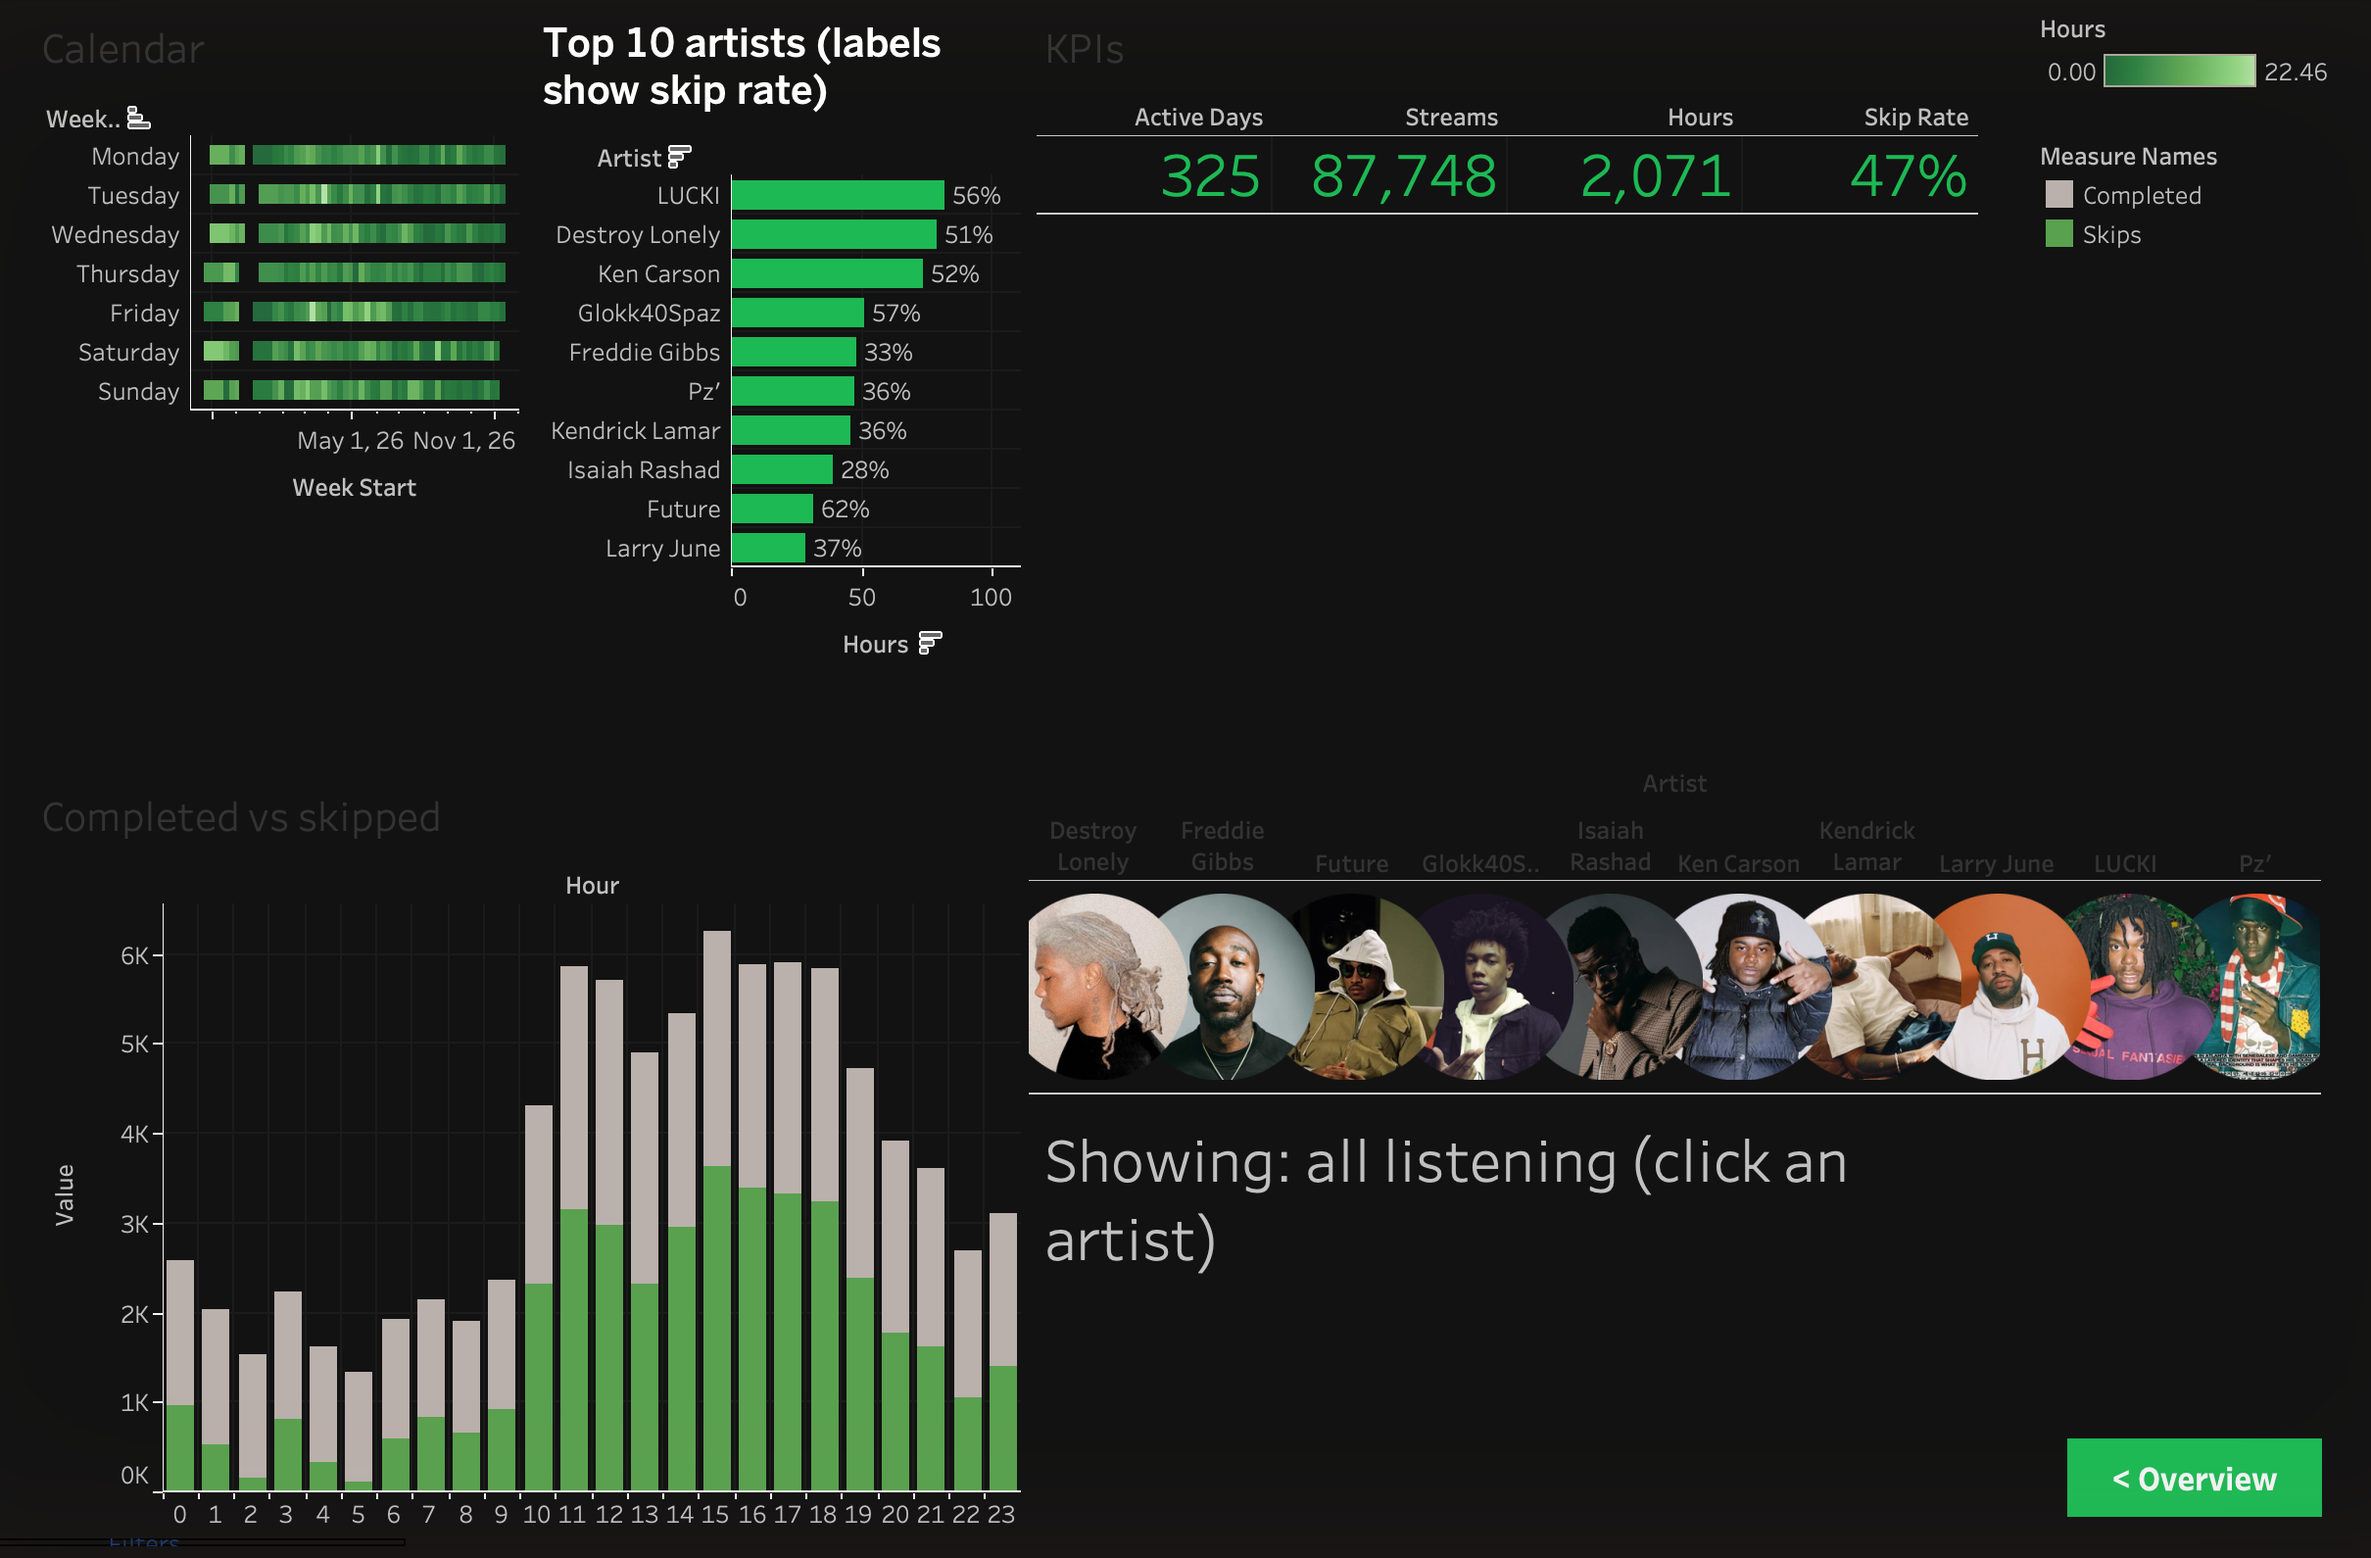
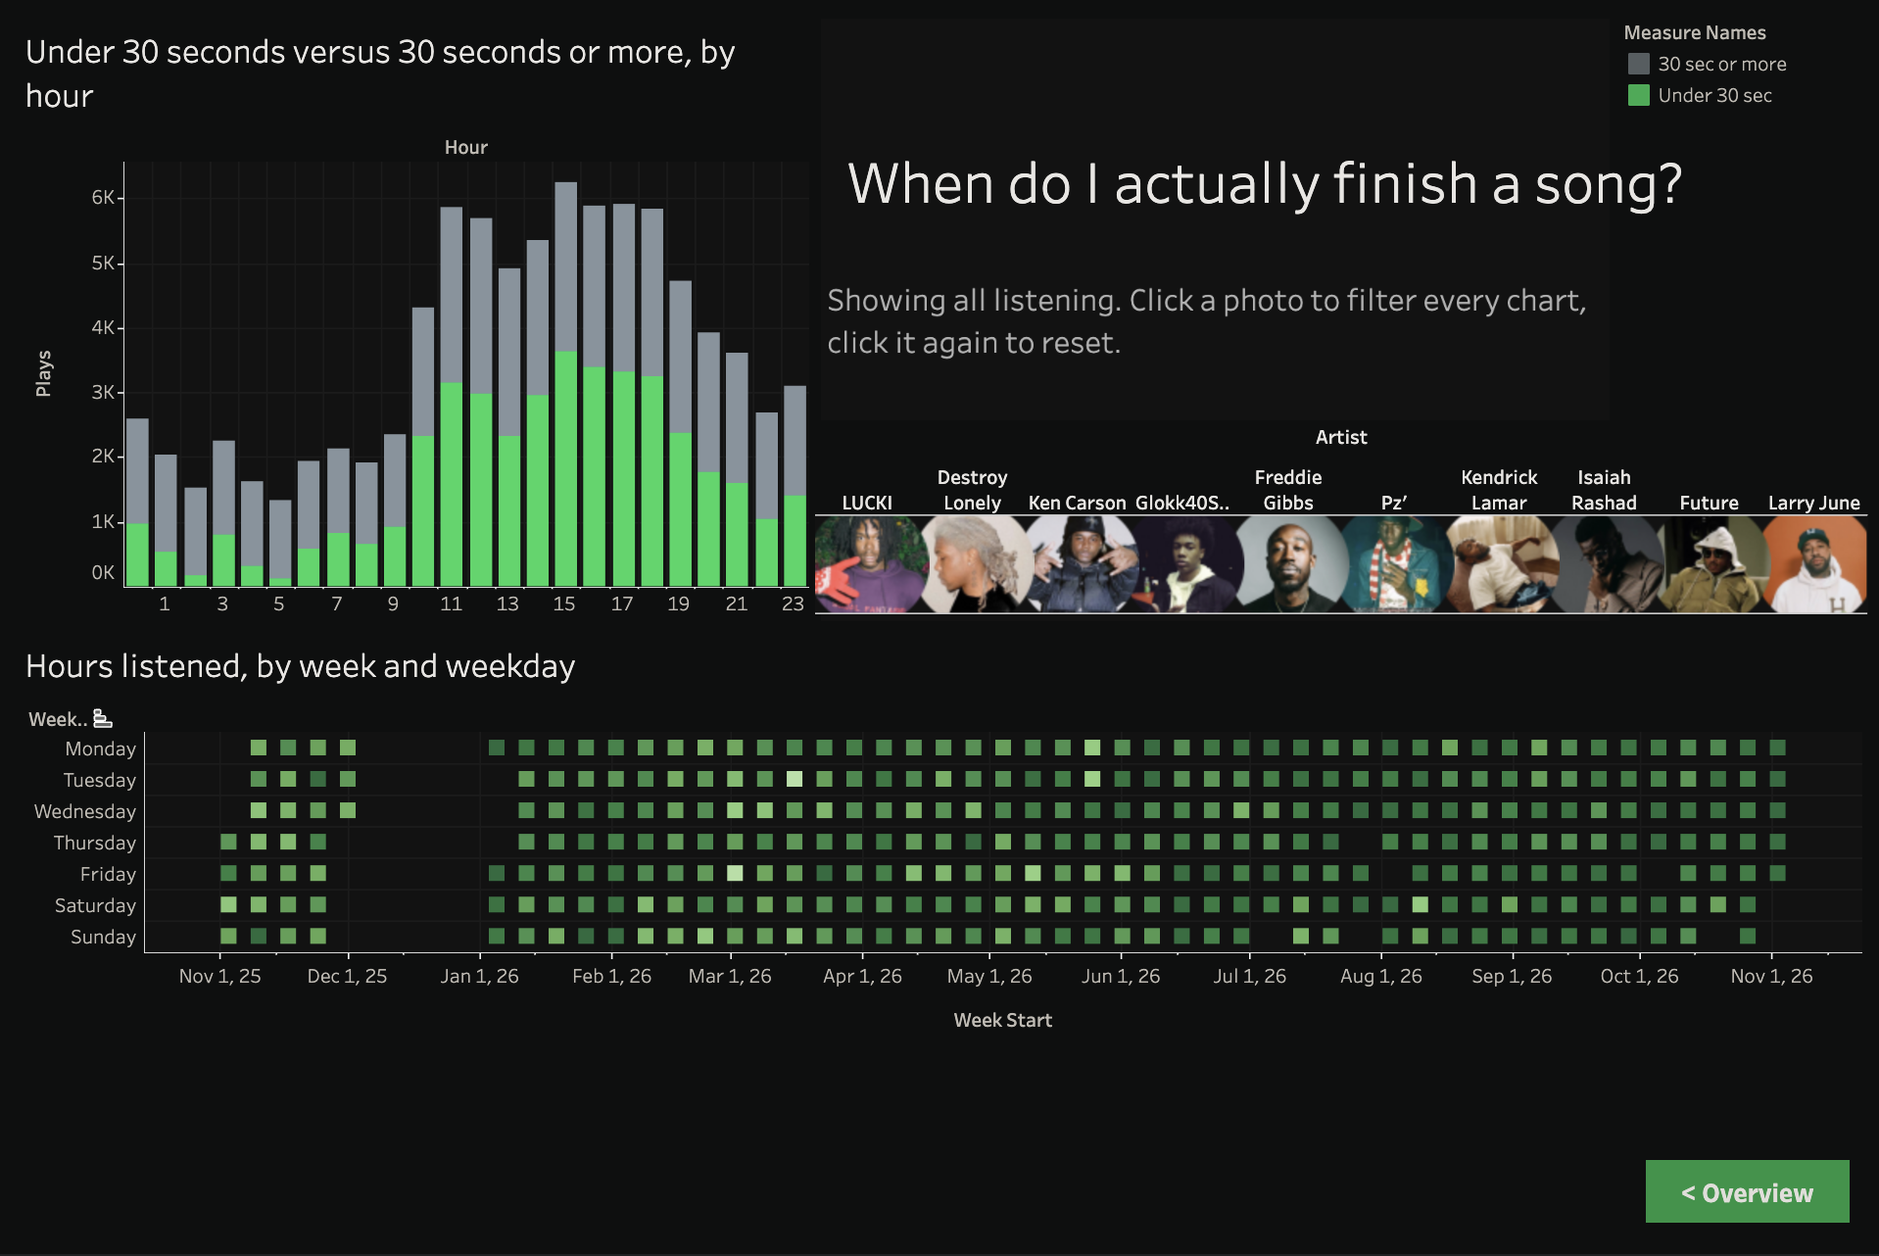
Update Overview screenshot and README to match live dashboard (#2)
* Update Overview screenshot and README to match the live dashboard

Claude-Session: https://claude.ai/code/session_01K6oMDpbuEsEd34EHrjX3sy

* Use 54% for the daytime skip rate to match the dashboard

Claude-Session: https://claude.ai/code/session_01K6oMDpbuEsEd34EHrjX3sy

* Update Habits page screenshot to match the live dashboard

Claude-Session: https://claude.ai/code/session_01K6oMDpbuEsEd34EHrjX3sy

---------

diff --git a/README.md b/README.md
@@ -14,9 +14,9 @@ I requested my account data from Spotify and analyzed a full year of streaming, 
 
 ## What is in the dashboard
 
-The dashboard has two pages with a dark, Spotify inspired design. The Overview page opens with the headline numbers and the main finding, then shows monthly hours, a weekday by hour heatmap, skip rate by hour of day, and the top 10 artists. The Habits page adds a calendar of listening by week, completed versus skipped streams by hour, and a larger set of headline numbers.
+The dashboard has two pages with a dark, Spotify inspired design. The Overview page leads with the main finding (I skip almost half of what I play), the 47% headline skip rate, and the daytime versus overnight comparison, then shows skip rate by hour of day and listening hours by month, with the December gap noted below the chart. The Habits page adds a calendar of listening by week, completed versus skipped streams by hour, and the top 10 artist photos.
 
-Both pages are interactive. Each page has a row of my top 10 artists as photos. Clicking a photo filters every chart on that page to that artist, and a text line under the photos names the artist's most played song and how many times I played it. Buttons on each page switch between the two pages.
+The Habits page is interactive. It has a row of my top 10 artists as photos. Clicking a photo filters every chart on that page to that artist, and buttons on each page switch between the two pages.
 
 ## Headline numbers
 
@@ -30,7 +30,7 @@ Both pages are interactive. Each page has a row of my top 10 artists as photos. 
 
 ## Key insights
 
-My skip rate depends heavily on the time of day. Between midnight and 5 AM only about 26% of streams are skipped, and at 5 AM it drops to 9%. Between 10 AM and 6 PM it sits near 55%, peaking at 58% around 3 PM. A reasonable reading is that late night listening is settled, familiar music while daytime listening is sampling and searching, though the data shows the pattern and not the reason.
+My skip rate depends heavily on the time of day. Between midnight and 5 AM only about 26% of streams are skipped, and at 5 AM it drops to 9%. Between 10 AM and 6 PM it sits at about 54%, peaking at 58% around 3 PM. A reasonable reading is that late night listening is settled, familiar music while daytime listening is sampling and searching, though the data shows the pattern and not the reason.
 
 My three most played artists by hours are LUCKI (82 hours), Destroy Lonely (79 hours), and Ken Carson (74 hours). Skip rates vary a lot among artists with at least 300 streams, from about 25% for The Internet to 64% for Yeat, so playing an artist often does not mean finishing their tracks.
 
@@ -60,7 +60,7 @@ Decisions I made along the way: the December gap is annotated on the trend chart
 | 9 | Top 10 artists | What I play most, with skip rate in the tooltip |
 | 10 | Dashboard layout | How the first four charts fit together |
 | 11 | Habits page | Calendar, completed versus skipped by hour, artist photos, and a most played song per artist |
-| 12 | Overview page | The finished first page with the headline numbers and artist photo filter |
+| 12 | Overview page | The finished first page with the headline skip rate, the daytime versus overnight comparison, skip rate by hour, and monthly hours |
 
 ## Tech stack
 
